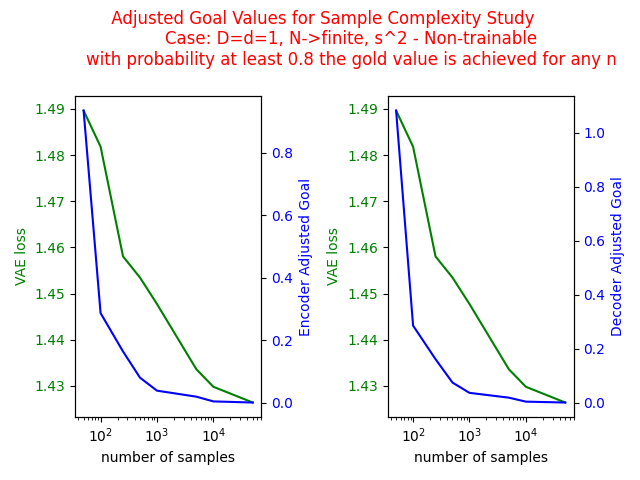
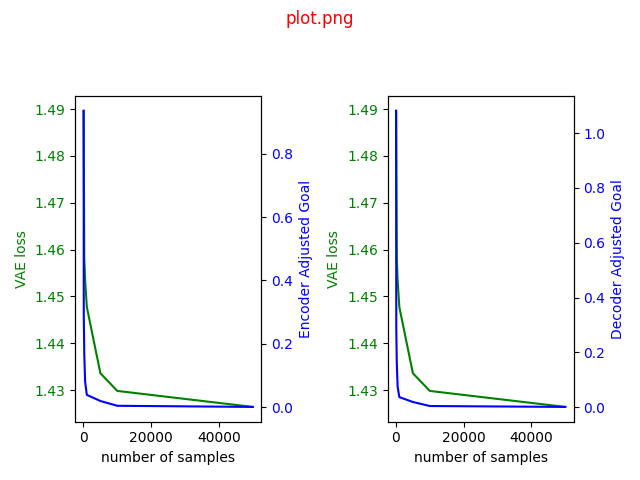
working code before A is orthogonal

diff --git a/vae.py b/vae.py
@@ -43,7 +43,7 @@ class MyDataSet(torch.utils.data.Dataset):
         self.x = x_train_tensor
         
     def __getitem__(self, index):
-        v = np.random.normal(0, 1, size=(1,d))
+        v = np.random.normal(0, 1, size=(1,self.d))
         noise = np.random.normal(0, 1, size=(1,self.D))
         x_train = np.matmul(v, self.A.T) + self.sigma * noise
         x_train = x_train.reshape((self.D,))
@@ -260,7 +260,9 @@ class VAE(torch.nn.Module):
 
 
 
-if __name__ == '__main__':
+
+
+def run():
 
     adjusted = 1
     s_trainable = 0
@@ -271,12 +273,12 @@ if __name__ == '__main__':
     if s_trainable:
         Non = 'Trainable'
 
-    D = 5
-    d = 5
+    D = 10
+    d = 10
     num_points = 10000
     batch_size = 1000
-    lr = 1
-    max_epochs = 1000
+    lr = 0.1
+    max_epochs = 150
     dataset = MyDataSet(d, D, num_points)
     dataloader = torch.utils.data.DataLoader(dataset, batch_size=batch_size,
                                              shuffle=True, num_workers=2)
@@ -310,11 +312,12 @@ if __name__ == '__main__':
         # print (epoch, "A", dataset.A[0][0])
         # print (epoch, "M", vae.encoder.M.weight)
         # print (epoch, "W", vae.decoder.W.weight)
-        print (epoch, "S", torch.exp(vae.encoder.log_S))
-        print (epoch, "s", torch.exp(vae.decoder.log_s))
+        # print (epoch, "S", torch.exp(vae.encoder.log_S))
+        # print (epoch, "s", torch.exp(vae.decoder.log_s))
         vae_loss = np.mean(losses)
         g_loss = vae.expected_g(dataset.A, dataset.sigma, adjusted)
-        h_loss = vae.expected_h(dataset.A, dataset.sigma, adjusted)
+        h_loss = vae.expected_g(dataset.A, dataset.sigma, 0)
+        # h_loss = vae.expected_h(dataset.A, dataset.sigma, adjusted)
 
 
         epochs.append(epoch)
@@ -329,7 +332,8 @@ if __name__ == '__main__':
 
 
     fig, ax1 = plt.subplots(1,2)
-    goals = ['Encoder {} Goal'.format(goal), 'Decoder {} Goal'.format(goal)]
+    # goals = ['Encoder {} Goal'.format(goal), 'Decoder {} Goal'.format(goal)]
+    goals = ['Gold Decoder Goal g(theta)', 'Adjusted Decoder Goal g_hat(theta)']
     vals = [h_losses, g_losses]
 
     for i in range(2):
@@ -348,28 +352,33 @@ if __name__ == '__main__':
         ax2.tick_params(axis='y', labelcolor=goal_color)
 
 
-    sigma_2 = dataset.sigma * dataset.sigma
-    sigma_val = str(round(sigma_2,4))
-    if s_trainable:
-        s_val = str(round(torch.exp(vae.decoder.log_s).detach().numpy()[0],3))
-    else:
-        s_val = str(round(s*s,4))
-    P = dataset.A.T/(1+sigma_2)
-    P_val = str(round(P[0][0], 3))
-    Q = sigma_2/ (1 + sigma_2)
-    Q_val = str(round(Q,3))
-    A_val = round(dataset.A[0][0], 3)
-    M_val = str(round(vae.encoder.M.weight.detach().numpy()[0][0],3))
-    W_val = str(round(vae.decoder.W.weight.detach().numpy()[0][0],3))
-    S_val = str(round(torch.exp(vae.encoder.log_S).detach().numpy()[0][0],3))
+    # sigma_2 = dataset.sigma * dataset.sigma
+    # sigma_val = str(round(sigma_2,4))
+    # if s_trainable:
+    #     s_val = str(round(torch.exp(vae.decoder.log_s).detach().numpy()[0],3))
+    # else:
+    #     s_val = str(round(s*s,4))
+    # P = dataset.A.T/(1+sigma_2)
+    # P_val = str(round(P[0][0], 3))
+    # Q = sigma_2/ (1 + sigma_2)
+    # Q_val = str(round(Q,3))
+    # A_val = round(dataset.A[0][0], 3)
+    # M_val = str(round(vae.encoder.M.weight.detach().numpy()[0][0],3))
+    # W_val = str(round(vae.decoder.W.weight.detach().numpy()[0][0],3))
+    # S_val = str(round(torch.exp(vae.encoder.log_S).detach().numpy()[0][0],3))
 
     fig.tight_layout()  # otherwise the right y-label is slightly clipped
-    fig.subplots_adjust(top=0.80)  # otherwise the right y-label is slightly clipped
+    fig.subplots_adjust(top=0.90)  # otherwise the right y-label is slightly clipped
 
-    title ='''  {} Goal Values
-                Case: D=d=1, N->Infinity, s^2 - {}
-                A = {} , sigma^2 = {} , s^2 = {} , P = {}, Q = {} 
-                Learned values: M = {}, W = {}, S = {} '''.format(goal, Non, A_val, sigma_val, s_val, P_val, Q_val, M_val, W_val, S_val)
+    # title ='''  {} Goal Values
+    #             Case: D=d=1, N->Infinity, s^2 - {}
+    #             A = {} , sigma^2 = {} , s^2 = {} , P = {}, Q = {} 
+    #             Learned values: M = {}, W = {}, S = {} '''.format(goal, Non, A_val, sigma_val, s_val, P_val, Q_val, M_val, W_val, S_val)
+
+    title ='''  Decoder Goal Values (Gold and Adjusted)
+                Case: D=d, N->Infinity
+            '''
+
     file_name = '_'.join(title.split()) + '.png'
     plt.suptitle(title, color='red', y=0.98)
     plt.savefig(file_name)
@@ -380,3 +389,6 @@ if __name__ == '__main__':
     # # plt.plot(epochs, g_losses, label="E[g(W,s2)]")
     # # plt.plot(epochs, h_losses, label="E[h(M,S)]")
     # plt.legend()
+
+if __name__ == '__main__':
+    run()

diff --git a/plot_sample.py b/plot_sample.py
@@ -3,7 +3,7 @@ import numpy as np
 import matplotlib.pyplot as plt
 
 pre = '_2'
-quantile = 0.8
+quantile = 0.85
 goal = 'Adjusted'
 ns = [50, 100, 250, 500, 1000, 5000, 10000, 50000]
 vae_loss = np.load('vae{}.npy'.format(pre))
@@ -26,8 +26,48 @@ for idx,n in enumerate(ns):
     vae = np.quantile(vae_loss[idx], quantile)
 
     vae_losses.append(vae)
-    g_losses.append(g)
-    h_losses.append(h)
+    g_losses.append(g*np.sqrt(n))
+    h_losses.append(h*n)
+
+# ns = [50, 100, 500, 1000, 5000, 10000, 50000]
+
+
+
+
+
+fig, ax1 = plt.subplots()
+loss_color = 'green'
+ax1.set_xlabel('number of samples (N)')
+ax1.set_xscale('log')
+ax1.set_ylabel('VAE loss', color=loss_color)
+ax1.plot(ns, vae_losses, color=loss_color)
+ax1.tick_params(axis='y', labelcolor=loss_color)
+
+ax2 = ax1.twinx()  # instantiate a second axes that shares the same x-axis
+
+goal_color = 'blue'
+
+ax2.set_ylabel('g_hat(theta) * sqrt(n)', color=goal_color)  # we already handled the x-label with ax1
+ax2.plot(ns, g_losses, color=goal_color)
+ax2.tick_params(axis='y', labelcolor=goal_color)
+title = '''
+        Rate of Learning Analysis
+        Case: D=d=1, N-> finite, delta = 0.15
+        Adjusted Goal * sqrt(n) is decreasing
+        '''
+# plt.title(title, color='red')
+plt.suptitle(title, color='red')
+
+fig.tight_layout()  # otherwise the right y-label is slightly clipped
+fig.subplots_adjust(top=0.80)  # otherwise the right y-label is slightly clipped
+plt.savefig('plot2.png')
+exit(0)
+
+
+
+
+
+
 
 fig, ax1 = plt.subplots(1,2)
 goals = ['Encoder {} Goal'.format(goal), 'Decoder {} Goal'.format(goal)]
@@ -78,4 +118,4 @@ title = ''' Adjusted Goal Values for Sample Complexity Study
 # title = 'experiment 1 d=D=1 sample complexity'
 file_name = '_'.join(title.split()) + '.png'
 plt.suptitle(title, color='red', y=0.98)
-plt.savefig(file_name)
+plt.savefig('plot.png')
